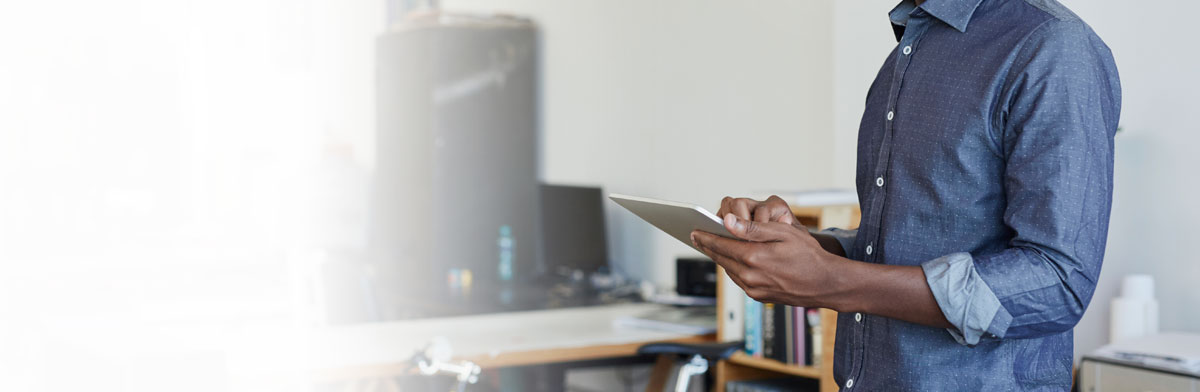
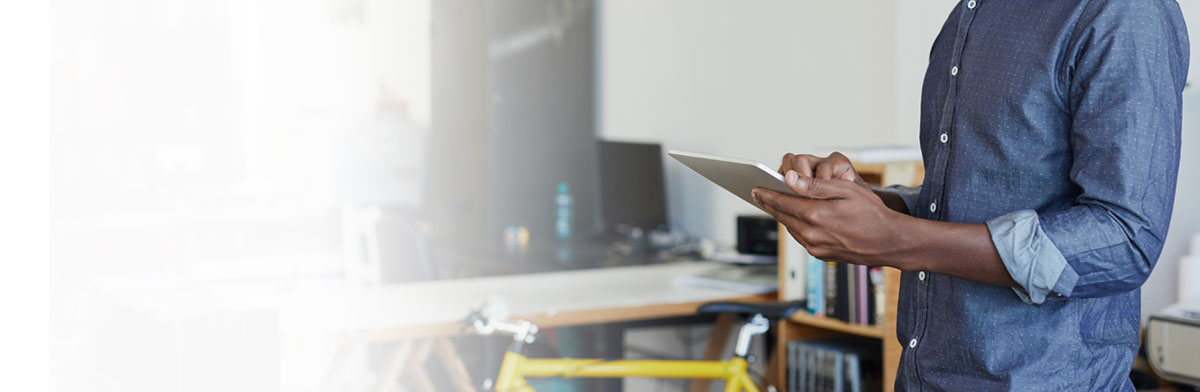
branded page

diff --git a/bootstrap/assets/stylesheets/bootstrap/_masthead.scss b/bootstrap/assets/stylesheets/bootstrap/_masthead.scss
@@ -46,8 +46,13 @@
 
             &.man_on_tablet{
                 @media (min-width: $screen-sm-min) {
+                    background:url("../../../img/grid/man_on_tablet_sm.jpg")  no-repeat right top;
+                }
+
+                @media (min-width: $screen-md-min) {
                     background:url("../../../img/grid/man_on_tablet.jpg")  no-repeat right top;
                 }
+
 
                 &:before{
                     @media (max-width: $screen-xs-max) {
@@ -59,8 +64,7 @@
                         width: 100%;
                         height: 100%;
                         opacity:.3;
-                        background:url("../../../img/grid/man_on_tablet_xs.jpg")  no-repeat right top;
-                       
+                        background:url("../../../img/grid/man_on_tablet_xs.jpg")  no-repeat  right top;
                     }
                 }
             }
@@ -68,15 +72,8 @@
             &.custom-payments{
                 padding:40px 0;
 
-
                 @media (min-width: $screen-sm-min) {
                     background:url("../../../img/payments/payments_hero_banner_sm.jpg")  no-repeat right top;
-                }
-                @media (min-width: $screen-md-min) {
-                    background:url("../../../img/payments/payments_hero_banner_md.jpg")  no-repeat right top;
-                }
-                @media (min-width: $screen-lg-min) {
-                    background:url("../../../img/payments/payments_hero_banner_lg.jpg")  no-repeat right top;
                 }
 
                 &:before{

diff --git a/bootstrap/assets/stylesheets/bootstrap/_interactive_grid.scss b/bootstrap/assets/stylesheets/bootstrap/_interactive_grid.scss
@@ -131,6 +131,10 @@
 			    -o-transition: all 250ms;
 			    transition: all 250ms;
 
+				.close{
+					display:none;
+				}
+
 				&.active{
 					z-index:999;
 				    .expand{
@@ -138,6 +142,11 @@
 				    		display:none;
 				    	}
 					}
+
+				    .video-play{
+				    	display:none;
+					}
+
 
 					.grid-item{
 						height:auto;
@@ -152,6 +161,25 @@
 
 						.background-image{
 							opacity: 0;
+							z-index: -1;
+						}
+
+						.close{
+							position:absolute;
+							top: -50px;
+							display:block;
+
+
+							@media (min-width:450px){
+								top: -20px;
+								right:5px;
+							}
+
+							@media (min-width:600px){
+								right: 5px;
+								top: 3px;
+								z-index: 999;
+							}
 						}
 
 						.headline-wrapper{
@@ -204,21 +232,6 @@
 								height:400px;
 
 							}	
-
-							.close{
-								position:relative;
-								top: -50px;
-
-								@media (min-width:450px){
-									top: -20px;
-									right:5px;
-								}
-
-								@media (min-width:600px){
-									right: -10px;
-									top: -10px;
-								}
-							}
 						}
 					}
 
@@ -308,7 +321,17 @@
 						-moz-transition: opacity 400ms;
 						-o-transition: opacity 400ms;
 						transition: opacity 400ms;
+						background-size: cover;
 						z-index:0;
+				    }
+
+				    .video-play{
+				    	position: absolute;
+						top: 50%;
+						left: 50%;
+						transform: translate(-50%, -50%);
+						color:$white;
+						opacity: .7;
 				    }
 
 					.description{

diff --git a/js/clients_script.js b/js/clients_script.js
@@ -11,7 +11,6 @@
 		var tallest = 0;
 		$(".client").not(".client_quote_box").each(function(){
 			var $thisHeight = $(this).height();
-
 			if($thisHeight > tallest){
 				tallest = $thisHeight;
 			}

diff --git a/bootstrap/assets/stylesheets/bootstrap/_custom_icons.scss b/bootstrap/assets/stylesheets/bootstrap/_custom_icons.scss
@@ -26,3 +26,4 @@
 .dr-cards:before{content:'\0049';}
 .dr-payments:before{content:'\004a';}
 .dr-globe:before{content:'\004c';}
+.dr-player:before{content:'\004d';}

diff --git a/bootstrap/assets/stylesheets/bootstrap/_type.scss b/bootstrap/assets/stylesheets/bootstrap/_type.scss
@@ -130,6 +130,10 @@ i{
       font-size: 10rem;
   }
 
+  &.x15{
+      font-size: 15rem;
+  }
+
   &.option{
     &.margin-right{
         margin-right:15px;

diff --git a/inc/theme_functions.php b/inc/theme_functions.php
@@ -535,17 +535,16 @@ function create_grid($headline, $grid){
 
 <script>
   var $grid;
-jQuery(document).ready(function($){
-  $grid = $('.interactive-grid .row');
-  $grid.packery({
-    itemSelector: '.interact',
-    gutter: 0
+  jQuery(document).ready(function($){
+    $grid = $('.interactive-grid .row');
+    $grid.packery({
+      itemSelector: '.interact',
+      gutter: 0
   });
 
   $(document).on("click", ".interact", function(){
       var $this = $(this);
 
-      
       var $this_grid = $this.parents(".interactive-grid");
       if($this_grid.find(".grid-item-wrapper.active").length > 0){
           close_grid_item($this_grid.find(".grid-item-wrapper.active"));
@@ -574,8 +573,13 @@ jQuery(document).ready(function($){
       $this_grid_item.removeClass("active");
       $this_grid_item.addClass("interact");
 
+      $("iframe.video").each(function(){
+        $("#"+$(this).attr("id")).vimeo("pause");
+      });
+
       $(".interactive-grid").find(".placeholder").remove();
       $grid.packery('reloadItems');
+
   }
   $(document).on("click",".interactive-grid .active .close", function(){
       close_grid_item($(this).parents(".grid-item-wrapper"));
@@ -594,6 +598,7 @@ jQuery(document).ready(function($){
 });
 </script>
   <?php
+
     echo '<div class="slide">';
         slide_header('black', $headline);
         echo '<div class="container interactive-grid">';
@@ -604,16 +609,25 @@ jQuery(document).ready(function($){
                         if($grid_item['icon']):
                             echo '<div class="expand hide-on-expand"><i class="'.$grid_item['icon'].'"></i></div>';
                         endif;
+
                         echo '<div class="background-image" style="background-image:url('.$grid_item['background_image'].');"></div>';
-                        echo "<div class='headline-wrapper'>";
-                            echo "<div class='headline'>";
-                                echo $grid_item['title'];
-                            echo "</div>";
-                        echo "</div>";
-                        echo "<div class='description'>";
-                            echo '<div class="close"><i class="fa fa-times"></i></div>';
-                            echo $grid_item['description'];
-                        echo "</div>";
+                        echo '<div class="close"><i class="fa fa-times"></i></div>';
+
+
+                        if($grid_item['video']){
+                              echo '<i class="video-play dr-player x15"></i>';
+
+                              echo '<iframe class="video" style="width: 100%; height: 100%;" id="'.$grid_item['video_pretty_id'].'" src="https://player.vimeo.com/video/'.$grid_item['video_id'].'?api=1&amp;player_id='.$grid_item['video_pretty_id'].'" frameborder="0" webkitallowfullscreen mozallowfullscreen allowfullscreen></iframe>'; 
+                        }else{
+                              echo "<div class='headline-wrapper'>";
+                                  echo "<div class='headline'>";
+                                      echo $grid_item['title'];
+                                  echo "</div>";
+                              echo "</div>";
+                              echo "<div class='description'>";
+                                  echo $grid_item['description'];
+                              echo "</div>";
+                        }
                     echo '</div>';
                 echo '</div>';
             endforeach;

diff --git a/functions.php b/functions.php
@@ -171,7 +171,6 @@ wp_enqueue_style( 'bootstrap-css' );
         wp_enqueue_style('gaming_grid_styles');  
         wp_enqueue_style('gaming_misc_styles');  
         wp_enqueue_style('gaming_styles');  
-
     }
 
 }
@@ -218,8 +217,10 @@ function theme_scripts() {
     }
 
     if(is_page_template("templates/template-clients2.php") || is_page_template("templates/template-why-dr.php") ||  is_page_template("templates/template-CBI.php") ||  is_page_template("templates/template-test.php") ){
-        //wp_enqueue_script('vimeo', get_stylesheet_directory_uri() . '/js/jquery.vimeo.api.js', array('jquery'), 1, true);
     }
+
+    wp_enqueue_script('vimeo', get_stylesheet_directory_uri() . '/js/jquery.vimeo.api.js', array('jquery'), 1, true);
+
 
     if(is_page_template("templates/caas-template.php")){
         wp_enqueue_script('caas_script', get_stylesheet_directory_uri() . '/js/caas.js', array('jquery'), 1, true);

diff --git a/templates/template-branded.php b/templates/template-branded.php
@@ -136,6 +136,17 @@ $headline = "Solutions Tailored to Your Business";
 // 				"background_image" => get_template_directory_uri()."/img/grid/working_on_a_laptop.jpg",
 // 			);
 
+
+$grid[] = array(
+				"width" => 'col-sm-6 col-xxs-12',
+				"icon" => 'fa fa-plus',
+				"height" => 'double-height',
+				"video" => true,
+				"video_id" => '160607511',
+				"video_pretty_id" => 'branded',
+				"background_image" => get_template_directory_uri()."/img/grid/branded_video.jpg",
+			);
+
 $grid[] = array(
 				"width" => 'col-sm-6 col-xxs-12',
 				"icon" => 'fa fa-plus',

diff --git a/masthead.php b/masthead.php
@@ -67,10 +67,6 @@ $blog_id = $blog_data->cat_ID;
 				}
 				?>
 				</div>
-<<<<<<< HEAD
-=======
-		</div>
->>>>>>> eb7817f51b0252da16b8de26a5d4c712075b9c4d
         </div>
     </div>
 </section>
